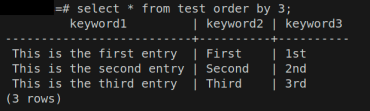
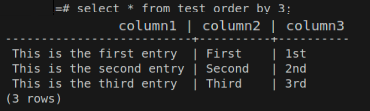
rectified

diff --git a/parseFiles.py b/parseFiles.py
@@ -26,6 +26,7 @@ credentials = {'user' : "enterusername",
 			   'port' : "enterportnumber",
 			   'dbname' : "enterdatabasename"}
 
+
 try:
 	cnx = connect(**credentials)
 	cnx.autocommit=True
@@ -55,32 +56,33 @@ for eachfile in FILES:
 		print("Uploading file to database [" + eachfile + "]")
 		line = file.readline()
 		while (line):
-			while (len(line) > 0 and line[:len(keyword1)] != keyword1):
+			while (len(line) > 0 and line[:len(column1)] != column1):
 				line = file.readline()
-			if (len(line) > 0 and line[:len(keyword1)] == keyword1):
+			if (len(line) > 0 and line[:len(column1)] == column1):
 				# Number of values should match number of keywords you are looking for
 				value1 = "" 
 				value2 = ""
 				value3 = ""
 				
-				value1 = line[len(keyword1) + 1:].strip()
+				value1 = line[len(column1) + 1:].strip()
 				line = file.readline()
-				if (len(line) > 0 and line[:len(keyword2)] == keyword2):
-					value2 = line[len(keyword2) + 1:].strip()
+				if (len(line) > 0 and line[:len(column2)] == column2):
+					value2 = line[len(column2) + 1:].strip()
 				line = file.readline()
-				if (len(line) > 0 and line[:len(keyword3)] == keyword3):
-					value3 = line[len(keyword3) + 1:].strip()
+				if (len(line) > 0 and line[:len(column3)] == column3):
+					value3 = line[len(column3) + 1:].strip()
 				try:
+					# Remember to change column names on lines 45-47 to your actual column names in your table
 					sql = f"INSERT INTO {TABLE_NAME} ({column1}, {column2}, {column3}) values ('{value1}' , '{value2}', '{value3}')"
 					cursor.execute(sql)
 				except Exception as e:
-					error_log.write("FILE: " + eachfile + f" Failed to add {keyword1}:" + value1 + 
-						f" | {keyword2}: " + value2 + f" | {keyword3}: " + value3 
+					error_log.write("FILE: " + eachfile + f" Failed to add {column1}:" + value1 + 
+						f" | {column2}: " + value2 + f" | {column3}: " + value3 
 						+ "\nError: " + str(e) + '\n-----\n')
 					
-					resubmit.write( f"{keyword1}: " + value1 +'\n' + \
-									f"{keyword2}: " + value2 +'\n' + \
-									f"{keyword3}: " + value3 +'\n\n')
+					resubmit.write( f"{column1}: " + value1 +'\n' + \
+									f"{column2}: " + value2 +'\n' + \
+									f"{column3}: " + value3 +'\n\n')
 			else:
 				line = file.readline()
 
